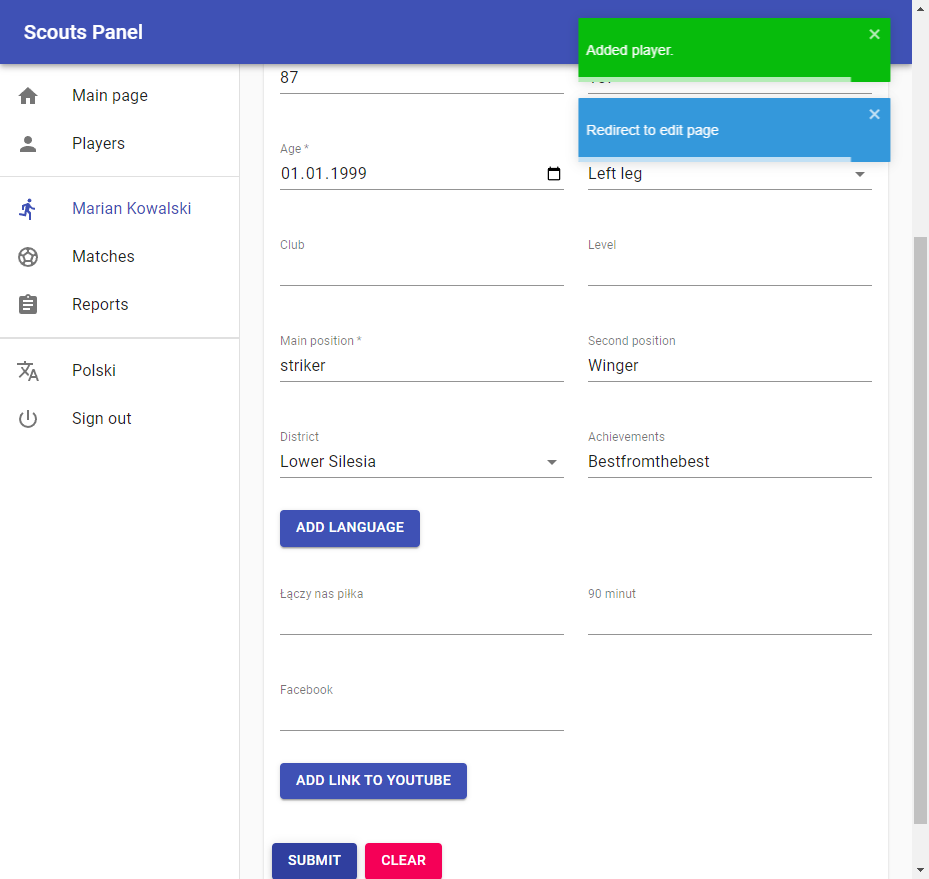
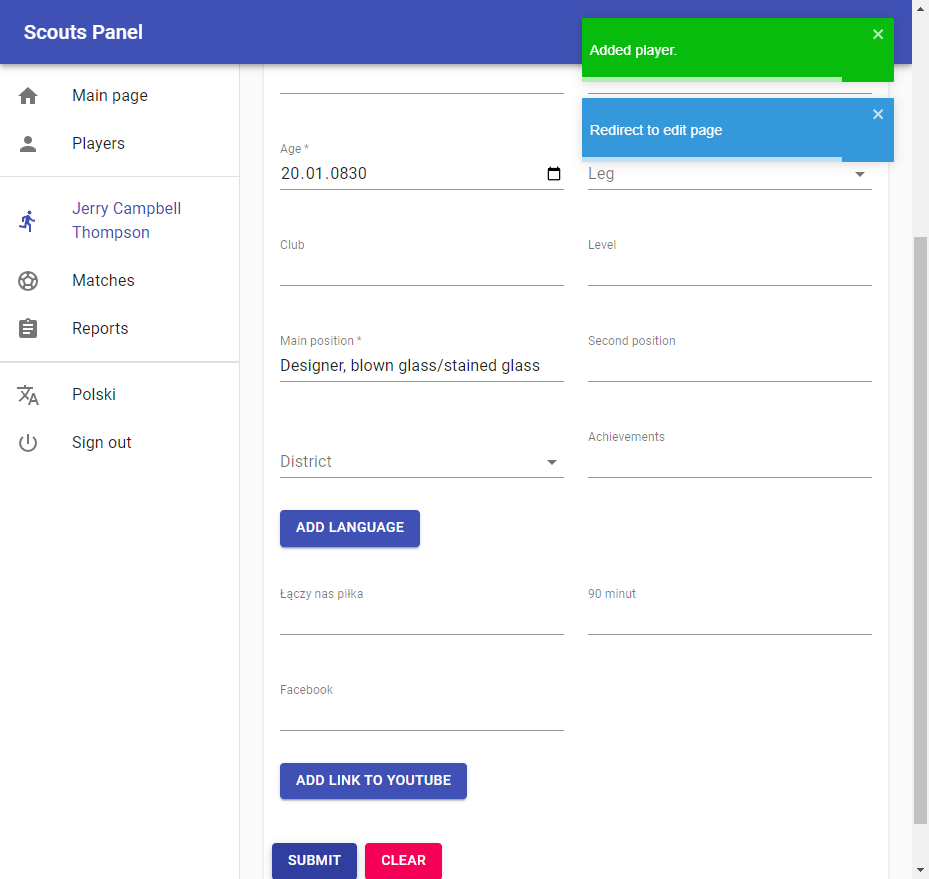
fake_it

diff --git a/pages/add_a_player.py b/pages/add_a_player.py
@@ -1,6 +1,7 @@
 import time
 
 from pages.base_page import BasePage
+from faker import Faker
 
 
 class AddAPlayer(BasePage):
@@ -48,34 +49,50 @@ class AddAPlayer(BasePage):
     progress_bar_toaster_xpath = "//*[@role='alert']"
     add_a_player_url = "https://scouts-test.futbolkolektyw.pl/en/players/add"
     expected_title = 'Add player'
-    expected_title_player_added = "Edit player Marian Kowalski"
+    name = ""
+    surname = ""
+    expected_title_player_added = " "
 
-
-
-    def type_in_email(self, email):
+    def type_in_email(self):
+        fake = Faker()
+        email = fake.email()
         self.field_send_keys(self.email_field_xpath, email)
 
-    def type_in_name(self, name):
-        self.field_send_keys(self.name_field_xpath, name)
+    def type_in_name(self):
+        fake = Faker()
+        self.name = fake.name()
+        self.field_send_keys(self.name_field_xpath, self.name)
 
-    def type_in_surname(self, surname):
-        self.field_send_keys(self.surname_field_xpath, surname)
+    def type_in_surname(self):
+        fake = Faker()
+        self.surname = fake.last_name()
+        self.field_send_keys(self.surname_field_xpath, self.surname)
 
-    def type_in_phone(self, phone):
+    def type_in_phone(self):
+        fake = Faker()
+        phone = fake.phone_number()
         self.field_send_keys(self.phone_field_xpath, phone)
 
-    def type_in_weight(self, weight):
+    def type_in_weight(self):
+        fake = Faker()
+        weight = fake.random_int(min=50, max=150)
         self.field_send_keys(self.weight_field_xpath, weight)
 
-    def type_in_height(self, height):
+    def type_in_height(self):
+        fake = Faker()
+        height = fake.random_int(min=150, max=200)
         self.field_send_keys(self.height_field_xpath, height)
 
-    def type_in_age(self, age):
+    def type_in_age(self):
+        fake = Faker()
+        age = fake.date()
         self.field_send_keys(self.age_field_xpath, age)
 
-    def select_leg(self, leg):
+    def select_leg(self):
         self.wait_for_element_to_be_clickable(self.leg_dropdown_xpath)
         self.click_on_the_element(self.leg_dropdown_xpath)
+        fake = Faker()
+        leg = fake.random_element(elements=('left', 'right'))
         if leg == "left":
             self.wait_for_element_to_be_clickable(self.left_leg_option_xpath)
             self.click_on_the_element(self.left_leg_option_xpath)
@@ -83,19 +100,33 @@ class AddAPlayer(BasePage):
             self.wait_for_element_to_be_clickable(self.right_leg_option_xpath)
             self.click_on_the_element(self.right_leg_option_xpath)
 
-    def type_in_club(self, club):
+    def type_in_club(self):
+        fake = Faker()
+        club = fake.text()
         self.field_send_keys(self.club_field_xpath, club)
 
-    def type_in_level(self, level):
+    def type_in_level(self):
+        fake = Faker()
+        level = fake.text()
         self.field_send_keys(self.level_field_xpath, level)
 
-    def type_in_main_position(self, main_position):
+    def type_in_main_position(self):
+        fake = Faker()
+        main_position = fake.job()
         self.field_send_keys(self.main_position_field_xpath, main_position)
 
-    def type_in_second_position(self, second_position):
+    def type_in_second_position(self):
+        fake = Faker()
+        second_position = fake.job()
         self.field_send_keys(self.second_position_field_xpath, second_position)
 
-    def select_district(self, district):
+    def select_district(self):
+        fake = Faker()
+        district = fake.random_element(
+            elements=('Lower Silesia', 'Pomerania', 'Masovia' 'Lublin', 'Lubusz', 'Łódź', 'Kuyavia-Pomerania'
+                                                                                          'Lesser Poland', 'Opole',
+                      'Subcarpathia', 'Silesia', 'Podlaskie', 'Holy Cross Province', 'Warmia-Masuria', 'Greater Poland',
+                      'West Pomerania'))
         self.wait_for_element_to_be_clickable(self.district_field_xpath)
         self.click_on_the_element(self.district_field_xpath)
         xpath = self.district_xpath_map.get(district)
@@ -103,7 +134,9 @@ class AddAPlayer(BasePage):
             self.wait_for_element_to_be_clickable(xpath)
             self.click_on_the_element(xpath)
 
-    def type_in_achievements(self,achievements):
+    def type_in_achievements(self):
+        fake = Faker()
+        achievements = fake.text()
         self.field_send_keys(self.achievements_field_xpath, achievements)
 
     def click_submit_button(self):
@@ -116,8 +149,6 @@ class AddAPlayer(BasePage):
 
     def player_added_title_of_the_page(self):
         self.wait_for_element_to_be_visible(self.progress_bar_toaster_xpath)
-        assert self.driver.title == self.expected_title_player_added
-
-
-
-
+        player_title = self.driver.title
+        self.expected_title_player_added = f"Edit player {self.name} {self.surname}"
+        assert player_title == self.expected_title_player_added

diff --git a/test_cases/add_a_new_player.py b/test_cases/add_a_new_player.py
@@ -30,19 +30,25 @@ class TestAddAPlayer(unittest.TestCase):
         dashboard_page.click_add_a_player_button()
         add_a_player = AddAPlayer(self.driver)
         add_a_player.title_of_page()
-        add_a_player.type_in_email('test@test.pl')
-        add_a_player.type_in_name("Marian")
-        add_a_player.type_in_surname("Kowalski")
-        add_a_player.type_in_phone("555555555")
-        add_a_player.type_in_weight('87')
-        add_a_player.type_in_height('187')
-        add_a_player.type_in_age('01-01-1999')
-        add_a_player.select_leg("left")
-        add_a_player.type_in_main_position('striker')
-        add_a_player.type_in_second_position('Winger')
-        add_a_player.select_district("Lower Silesia")
-        add_a_player.type_in_achievements("Bestfromthebest")
+        # add_a_player.type_in_email()
+        add_a_player.type_in_name()
+        add_a_player.type_in_surname()
+        # add_a_player.type_in_phone()
+        # add_a_player.type_in_weight()
+        # add_a_player.type_in_height()
+        add_a_player.type_in_age()
+        # add_a_player.select_leg()
+        # add_a_player.type_in_club()
+        # add_a_player.type_in_level()
+        add_a_player.type_in_main_position()
+        # add_a_player.type_in_second_position()
+        # add_a_player.select_district()
+        # add_a_player.type_in_achievements()
         add_a_player.click_submit_button()
+        self.driver.save_screenshot(
+            "C:/Users/dziad/Documents/GitHub/Challenge_portfolio_paudzi/test_cases/screenshots/add_a_new_player/filled_player.png")
+        Image.open(
+            "C:/Users/dziad/Documents/GitHub/Challenge_portfolio_paudzi/test_cases/screenshots/add_a_new_player/filled_player.png").show()
         add_a_player.player_added_title_of_the_page()
         self.driver.save_screenshot(
             "C:/Users/dziad/Documents/GitHub/Challenge_portfolio_paudzi/test_cases/screenshots/add_a_new_player/added_player.png")

diff --git a/pages/base_page.py b/pages/base_page.py
@@ -34,5 +34,5 @@ class BasePage():
         element = wait.until(EC.element_to_be_clickable((locator_type, locator)))
 
     def wait_for_element_to_be_visible(self, locator, locator_type=DEFAULT_LOCATOR_TYPE):
-        wait = WebDriverWait(self.driver, 15)
+        wait = WebDriverWait(self.driver, 20)
         element = wait.until(EC.visibility_of_element_located((locator_type, locator)))
